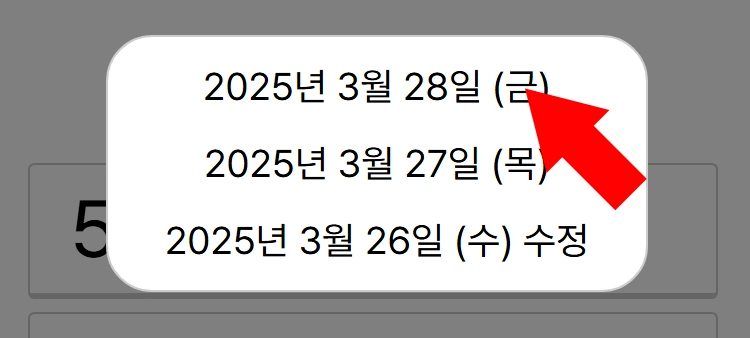
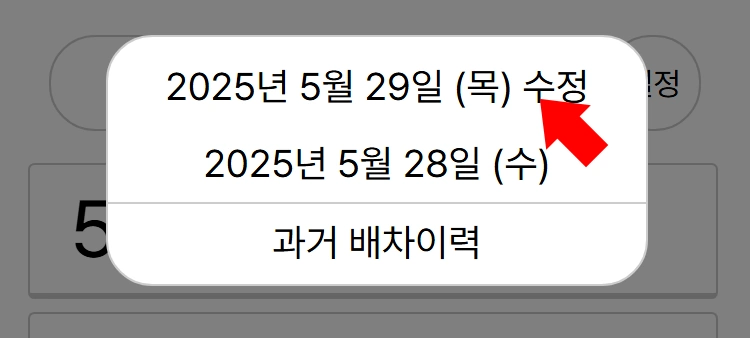
Add files via upload

diff --git a/index.html b/index.html
@@ -1,7 +1,7 @@
 <!DOCTYPE html>
 <html>
     <head>
-        <title>차량목록</title>
+        <title>차량·배차목록</title>
         <meta charset="UTF-8">
         <meta name="viewport" content="width=device-width">
         <script src="https://code.jquery.com/jquery-1.12.4.min.js" integrity="sha256-ZosEbRLbNQzLpnKIkEdrPv7lOy9C27hHQ+Xp8a4MxAQ=" crossorigin="anonymous"></script>
@@ -15,7 +15,6 @@
                 padding: 0;
                 margin: 0;
                 user-select: none;
-
             }
             #date{
                 position: absolute;
@@ -58,7 +57,7 @@
                 background-color: #FFF;
                 z-index: 5;
                 padding-top: 0.3em;
-                padding-bottom: 0.3em;
+                padding-bottom: 0.1em;
                 display: none;
             }
             #setting{
@@ -221,6 +220,52 @@
                 margin-bottom: 1.5em;
                 font-size: 1.2em;
             }
+            #monthHeader{
+                text-align: center;
+                font-size: 1.2em;
+                height: 2.4em;
+                width: 13rem;
+                margin-left: calc(50vw - 6.5rem);
+            }
+            #monthHeader > div{
+                float: left;
+            }
+            .monthSelector{
+                border: 1px solid #CCC;
+                font-size: 1.0rem;
+                width: 1.5rem;
+                margin-top: 0.9em;
+                line-height: 0.9em;
+                border-radius: 1em;
+                cursor: pointer;
+            }
+            #monthTable{
+                width: 100vw;
+                text-align: center;
+            }
+            #monthCalendar{
+                width: calc(100vw - 2em);
+                border: 1px solid #CCC;
+                border-bottom: 0.2em solid #CCC;
+                border-radius: 0.2em;
+                margin-left: calc(1em - 2px);
+                position: relative;
+            }
+            #monthCalendar > div{
+                width: calc(100% / 7);
+                border-bottom: 1px solid #CCC;
+                height: 5em;
+                margin-bottom: -1px;
+                position: absolute;
+            }
+            .monthCell{
+                border-radius: 0.2rem;
+                text-align: left;
+                font-size: 0.8em;
+                margin: 0.2em;
+                margin-right: 0.2em;
+                padding-left: 0.2em;
+            }
             #helpbutton{
                 position: absolute;
                 z-index: 2;
@@ -336,6 +381,8 @@
             var prevInput = '';
             var logined = false;
             var linelisted = false;
+            var scheduleLogMode = false;
+            var scheduleLogData;
             var group = [
                 ['211', '311'],
                 ['814', '815'],
@@ -412,13 +459,12 @@
                                 var checked = [];
                                 var j = 0;
                                 for(var i = 0; i < data.length; i++){
-                                    if(checked.includes(data[i][0].split('(')[0].trim()))   continue;
-
                                     var date = /(\d{4})년 (\d{1,2})월 (\d{1,2})일 \(([가-힣])\)/.exec(data[i][0]);
                                     date = (new Date(date[1], date[2]-1, date[3])).getTime();
+                                    if(checked.includes(date))   continue;
                                     if(date < Date.now() - 129600000)   continue;
 
-                                    checked.push(data[i][0].split('(')[0].trim());
+                                    checked.push(date);
                                     //output.push(`<span style="cursor: pointer;" onclick="schedules('${data[i][0]}')">${data[i][0]}</span><br>`);
                                     list.push(data[i][0]);
                                     j++;
@@ -428,6 +474,7 @@
                                 for(var i = 0; i < list.length; i++){
                                     output+= `<span style="cursor: pointer;" onclick="schedules('${list[i]}')">${list[i]}</span><br>`;
                                 }
+                                output+= '<div style="border-top: 1px solid #CCC; cursor: pointer;" onclick="showScheduleLog(false)">과거 배차이력</div>';
                                 $('#dateselector').css('display', 'block');
                                 $('#dateselector').html(output);
                                 $('#blur').css('display', 'block');
@@ -446,6 +493,7 @@
                 else{
                     $('#dateselector').css('display', 'none');
                     $('#blur').css('display', 'none');
+                    scheduleLogMode = false;
                     $.ajax({
                         url: `${api}?q=getTable&t=${req}`,
                         dataType: 'jsonp',
@@ -620,6 +668,181 @@
                 $('#blur').css('display', 'block');
             }
 
+            function showScheduleLog(date){
+                $('#dateselector').css('display', 'none');
+                $('#blur').css('display', 'none');
+                scheduleLogMode = true;
+
+                const today = new Date();
+                if(!date) date = [today.getFullYear(), today.getMonth() + 1];
+                const thisDate = date;
+
+                var prevDate, nextDate;
+                if(thisDate[1] > 1)  prevDate = [thisDate[0], thisDate[1] - 1];
+                else                 prevDate = [thisDate[0] - 1, 12];
+                if(thisDate[1] < 12) nextDate = [thisDate[0], thisDate[1] + 1];
+                else                 nextDate = [thisDate[0] + 1, 1];
+
+                $('#table').html(`
+                    <div id="monthHeader">
+                        <div class="monthSelector" onclick="showScheduleLog([${prevDate[0]}, ${prevDate[1]}])">←</div>
+                        <div style="width: calc(10rem - 4px); line-height: 2.4em;">${thisDate[0]}년 ${thisDate[1]}월</div>
+                        <div class="monthSelector" onclick="showScheduleLog([${nextDate[0]}, ${nextDate[1]}])">→</div></div>
+                    <div id="monthTable">데이터 처리중</div>`
+                );
+
+                $.ajax({
+                    url: api + `?q=getTableMany&search=${thisDate[0]}년%20${thisDate[1]}월`,
+                    dataType: 'jsonp',
+                    jsonpCallback: "callback",
+                    success: function(data){
+                        var list = [];
+                        var checked = [];
+                        var rawData = [];
+                        for(var i = 0; i < data.length; i++){
+                            var date = /(\d{4})년 (\d{1,2})월 (\d{1,2})일 \(([가-힣])\)/.exec(data[i][0]);
+                            var unixdate = (new Date(date[1], date[2]-1, date[3])).getTime();
+                            if(checked.includes(unixdate))   continue;
+
+                            checked.push(unixdate);
+                            list.push(data[i][0]);
+                            rawData[data[i][0]] = data[i][1].trim();
+                        }
+                        if(list.length == 0){
+                            $('#monthTable').html(`${thisDate[0]}년 ${thisDate[1]}월 배차 자료가 없습니다.`);
+                            return;
+                        }
+                        list.sort(function(a, b){
+                            var aVal = /(\d{4})년 (\d{1,2})월 (\d{1,2})일 \(([가-힣])\)/.exec(a);
+                            aVal = new Date(aVal[1], aVal[2]-1, aVal[3]).getTime();
+                            var bVal = /(\d{4})년 (\d{1,2})월 (\d{1,2})일 \(([가-힣])\)/.exec(b);
+                            bVal = new Date(bVal[1], bVal[2]-1, bVal[3]).getTime();
+                            return aVal - bVal;
+                        });
+
+                        scheduleLogData = {
+                            cars: [],
+                            names: [],
+                            data: {}
+                        };
+                        var dayList = {};
+                        for(var i = 0; i < list.length; i++){
+                            const rows = rawData[list[i]].split('\n');
+                            const date = /(\d{4})년 (\d{1,2})월 (\d{1,2})일 \(([가-힣])\)/.exec(list[i])[3]*1
+                            dayList[date] = {};
+                            for(var j = 0; j < rows.length; j++){
+                                const row = rows[j].split(',');
+                                if(row[7] == '1')  continue;
+                                dayList[date][row[2]] = {
+                                    route: row[0],
+                                    number: row[1]
+                                };
+                                if(row[4] == '')    dayList[date][row[2]].driver1 = row[3];
+                                else                dayList[date][row[2]].driver1 = row[4];
+                                if(row[6] == '')    dayList[date][row[2]].driver2 = row[5];
+                                else                dayList[date][row[2]].driver2 = row[6];
+
+                                if(!scheduleLogData.cars.includes(row[2]))  scheduleLogData.cars.push(row[2]);
+                                if(!scheduleLogData.names.includes(dayList[date][row[2]].driver1))  scheduleLogData.names.push(dayList[date][row[2]].driver1);
+                                if(!scheduleLogData.names.includes(dayList[date][row[2]].driver2))  scheduleLogData.names.push(dayList[date][row[2]].driver2);
+                            }
+                        }
+                        scheduleLogData.data = dayList;
+                        
+                        var output = '<div id="monthCalendar">';
+                        var cells = 0;
+                        const days = ['일', '월', '화', '수', '목', '금', '토'];
+                        const firstDate = days.indexOf(/\((.)\)/.exec(list[0])[1]);
+                        const lastDate = new Date(thisDate[0], thisDate[1], 0);
+                        for(var i = 0; i < firstDate; i++){
+                            var addStyle = '';
+                            addStyle+= `left: ${100 / 7 * i}%;`;
+
+                            output+= `<div style="${addStyle}"></div>`;
+                            cells++;
+                        }
+                        for(var i = 0; i < list.length; i++){
+                            var date = /(\d{4})년 (\d{1,2})월 (\d{1,2})일 \(([가-힣])\)/.exec(list[i]);
+
+                            var addStyle = '';
+                            if(date[4] == '일')
+                                addStyle+= 'border-left: 1px solid #FFFFFF00;';
+                            if(date[3]*1 + 7 > lastDate.getDate() + (6 - lastDate.getDay()))
+                                addStyle+= 'border-bottom: 1px solid #FFFFFF00;';
+
+                            addStyle+= `left: ${100 / 7 * days.indexOf(date[4])}%;`;
+                            addStyle+= `top: ${Math.floor((cells) / 7) * 5}em;`;
+
+                            output+= `<div style="${addStyle}";>
+                                <div style="text-align: right;">${date[3]*1}&nbsp;</div>
+                                <div id="monthCell_${date[3]*1}" class="monthCell"></div>
+                            </div>`;
+                            cells++;
+                        }
+                        output+= '</div><br><span id="monthComent"></span>';
+                        $('#monthTable').html(output);
+                        $('#monthCalendar').css('height', `${Math.ceil(cells / 7) * 5}em`);
+
+                        searchScheduleLog();
+                    },
+                    error: function(xhr){
+                        console.log(xhr);
+                        $('#monthTable').html('데이터 로드 실패');
+                    }
+                });
+            }
+
+            function searchScheduleLog(value = ''){
+                if(value == '')  value = $('#search').val();
+                if(value == ''){
+                    $('#monthComent').text('"찾기"란에 운전자 이름을 입력해주세요.');
+                    return;
+                }
+
+                var output = [];
+                var count = [0, 0];
+                if(isNaN(value)){
+                    if(scheduleLogData.names.includes(value)){
+                        const days = Object.keys(scheduleLogData.data);
+                        for(var i = 0; i < days.length; i++){
+                            const cars = Object.keys(scheduleLogData.data[days[i]]);
+                            for(var j = 0; j < cars.length; j++){
+                                const row = scheduleLogData.data[days[i]][cars[j]];
+                                if(row.driver1 == value || row.driver2 == value){
+                                    var workType;
+                                    if(row.driver1 == value) workType = 0;
+                                    else                     workType = 1;
+                                    output.push({
+                                        date: days[i],
+                                        route: row.route,
+                                        number: row.number,
+                                        car: cars[j],
+                                        type: workType
+                                    });
+                                }
+                            }
+                        }
+                    }
+                }
+
+                if(output.length == 0){
+                    $('#monthComent').text('해당 검색어로 조회된 결과 없음');
+                    return;
+                }
+
+                $('.monthCell').html('');
+                for(var i = 0; i < output.length; i++){
+                    $(`#monthCell_${output[i].date}`).html(`${output[i].route}<br>${output[i].number}번<br>${output[i].car}`);
+                    const color = [['#FFE056', '#000'], ['#1B2C77', '#FFF']];
+                    $(`#monthCell_${output[i].date}`).css('background-color', color[output[i].type][0]);
+                    $(`#monthCell_${output[i].date}`).css('color', color[output[i].type][1]);
+                    count[output[i].type]++;
+                }
+                console.log(output);
+
+                $('#monthComent').text(`오전 ${count[0]}일 + 오후 ${count[1]}일 = 합계 ${count[0] + count[1]}일 근무`);
+            }
+
             function showdetail(car){
                 if(!logined)    return;
 
@@ -662,6 +885,13 @@
                 if(isNaN(input)){
                     var input = $(this).val().toUpperCase();
                     if(prevInput == input)  return;
+
+                    if(scheduleLogMode){
+                        searchScheduleLog(input);
+                        prevInput = input;
+                        return;
+                    }
+
                     if(typeof(names[prevInput]) == 'string')    $(`#car_${names[prevInput]}`).removeClass('highlight');
                     
                     prevInput = input;
@@ -672,6 +902,13 @@
                 else{
                     var input = ($(this).val()+'').padStart(4, "5000");
                     if(prevInput == input)  return;
+
+                    if(scheduleLogMode){
+                        searchScheduleLog(input);
+                        prevInput = input;
+                        return;
+                    }
+
                     if(buses.includes(prevInput))   $(`#car_${prevInput}`).removeClass('highlight');
                     
                     prevInput = input;

diff --git a/help/index.html b/help/index.html
@@ -31,6 +31,8 @@
     </head>
     <body>
         <p style="font-size: 1.2em;">도움말</p>
+        <br>
+        <p style="font-size: 1.2em; font-weight: 600;">로그인</p>
         <img src="./1.webp" />
         <p>"배차" 버튼을 누르면 로그인 화면이 나타납니다. 인트라넷 아이디, 비밀번호를 입력하면 됩니다.</p>
         <p style="color:rgb(3, 171, 0)">"설정→자동 로그인"이 활성화 된 경우, 로그인 과정이 생략됩니다.
@@ -39,14 +41,22 @@
                 <li>다른 기기에서 로그인하면 기존 기기에서의 로그인은 해제됩니다.</li>
             </ul>
         </p>
+        <br>
+        <p style="font-size: 1.2em; font-weight: 600;">배차 확인</p>
         <img src="./2.webp" />
         <p>로그인 한 다음에 원하는 일자를 선택하면 해당 일자 배차일지 데이터를 볼 수 있습니다. 데이터는 09:00~12:00 10분 간격, 이외 매시 정각 갱신됩니다.</p>
         <img src="./3.webp" />
         <p>화면 위쪽 검색창에 차량번호나 운전자 이름을 입력하면 해당 차량으로 화면이 이동되고 푸른색으로 표시됩니다. 5018호는 "18"이라고 써도 검색 가능합니다.</p>
         <img src="./4.webp" />
-        <p>노선번호를 누르면 노선번호 목록이 표시되고, 특정 노선번호를 누르면 해당 노선으로 화면이 이동됩니다.</p>
+        <p>노선번호를 누르면 노선번호 목록이 표시되고, 특정 노선번호를 누르면 해당 위치로 화면이 이동됩니다.</p>
         <img src="./5.webp" />
         <p>특정 차량을 누르면 해당 차량에 대한 정보가 표시됩니다.</p>
-        <p style="color:rgb(179, 137, 0)">간혹 오류 등으로 인해 실제 배차표와 차이가 있을 수도 있습니다.</p>
+        <p style="color:rgb(179, 137, 0)">배차 정보는 자동으로 갱신되지만, 차종, 주차위치 등 차량 정보는 제때 갱신하지 못해 간혹 틀린 정보가 표시될 수도 있습니다.</p>
+        <br>
+        <p style="font-size: 1.2em; font-weight: 600;">과거 배차이력 확인</p>
+        <img src="./6.webp" />
+        <p>"과거 배차이력" 버튼을 누르면 한달 단위로 특정 운전자의 배차 기록을 확인할 수 있습니다.</p>
+        <img src="./7.webp" />
+        <p>노랑 배경은 오전 근무, 청색 배경은 오후 근무를 나타냅니다. "←", "→" 버튼을 통해 각각 이전 달, 다음 달로 페이지를 넘길 수 있습니다.</p>
     </body>
 </html>
